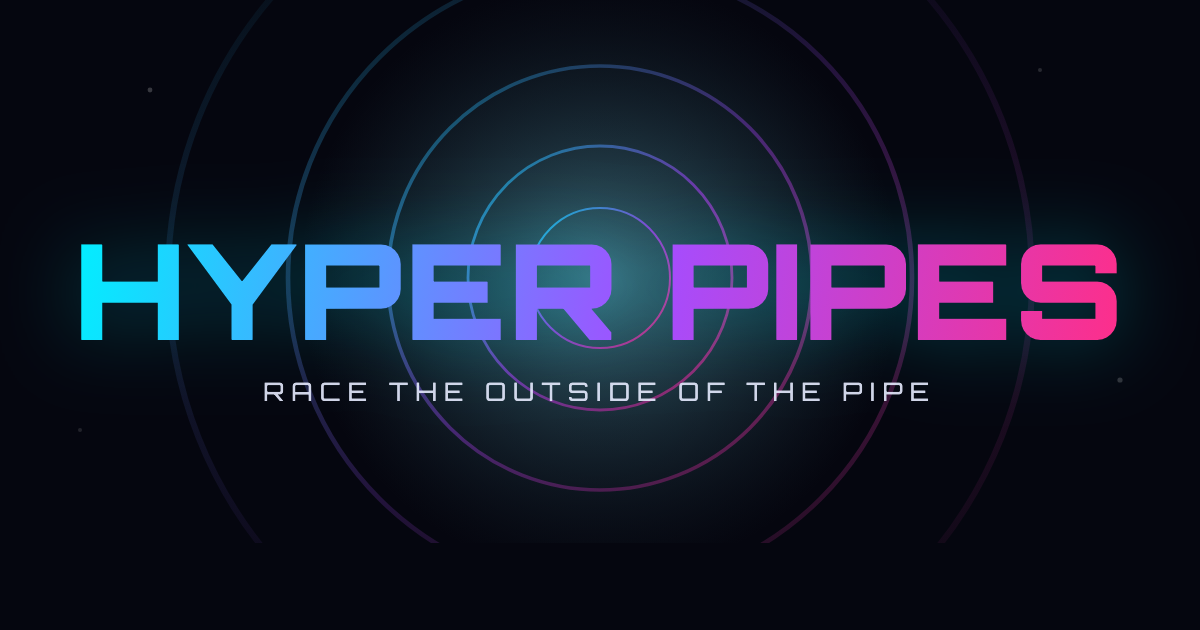
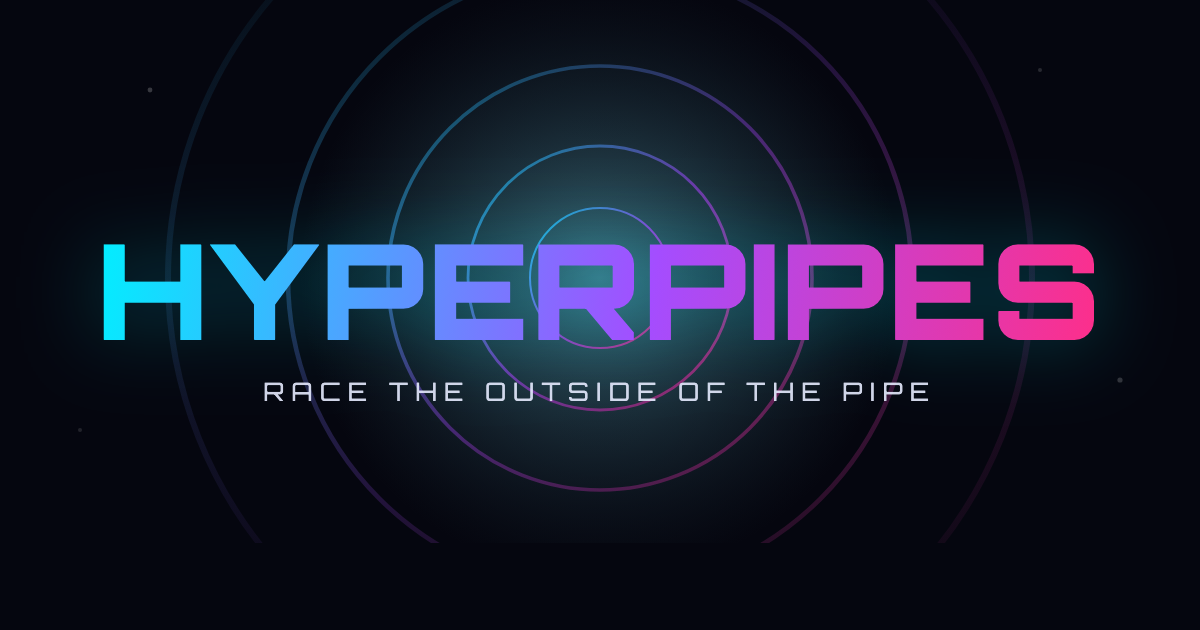
One word: HyperPipes
Renamed across the page, the README, the CSS header and the social card, and
re-rendered social-card.png so the baked-in wordmark matches.

The name is now a single unbreakable word, so the hero headline can no longer
wrap its way out of a narrow screen — dropped the clamp floor from 46px to
34px and gave the top bar a sub-400px rule so the brand and the button stop
competing.

Changed region(s): [[0.0617, 0.3619, 0.9558, 0.5429]]

diff --git a/index.html b/index.html
@@ -3,13 +3,13 @@
 <head>
 <meta charset="utf-8">
 <meta name="viewport" content="width=device-width, initial-scale=1">
-<title>Hyper Pipes — race the outside of the pipe</title>
-<meta name="description" content="Hyper Pipes is a neon anti-gravity racer where you race around the OUTSIDE of a procedurally generated pipe. Gravity pulls you around the tube — staying on top is the whole game.">
+<title>HyperPipes — race the outside of the pipe</title>
+<meta name="description" content="HyperPipes is a neon anti-gravity racer where you race around the OUTSIDE of a procedurally generated pipe. Gravity pulls you around the tube — staying on top is the whole game.">
 <meta name="theme-color" content="#05060f">
 
 <!-- link preview cards (Discord, X, Facebook, iMessage) -->
 <meta property="og:type" content="website">
-<meta property="og:title" content="Hyper Pipes">
+<meta property="og:title" content="HyperPipes">
 <meta property="og:description" content="A neon anti-gravity racer where you ride the OUTSIDE of the pipe. Gravity pulls you around the tube — staying on top is the whole game.">
 <meta property="og:image" content="assets/img/social-card.png">
 <meta name="twitter:card" content="summary_large_image">
@@ -25,7 +25,7 @@
   <div class="shell">
     <a class="brand" href="#top">
       <img src="assets/img/icon.svg" alt="">
-      <b>Hyper Pipes</b>
+      <b>HyperPipes</b>
     </a>
     <nav class="nav">
       <a href="#features">Features</a>
@@ -83,7 +83,7 @@
 
   <div class="hero-inner shell">
     <span class="badge"><span class="dot"></span> In development &middot; playable build</span>
-    <h1>Hyper Pipes</h1>
+    <h1>HyperPipes</h1>
     <p class="tagline">Race the outside of the pipe</p>
     <p class="pitch">
       A neon anti-gravity racer built on one twist: you ride the <em>outside</em> of the
@@ -338,7 +338,7 @@
       <div>
         <h2>Found a bug? Tell me.</h2>
         <p>
-          Hyper Pipes is a one-person project and every report genuinely helps. Bug
+          HyperPipes is a one-person project and every report genuinely helps. Bug
           reports and ideas live on GitHub — pick a template, fill in what happened,
           drop in a screenshot if you have one. You'll need a free GitHub account.
         </p>
@@ -357,7 +357,7 @@
 <!-- ========================================================== footer ===== -->
 <footer>
   <div class="shell">
-    <p>&copy; <span id="year">2026</span> CrashBamBoom &middot; Hyper Pipes &middot; Made with Godot</p>
+    <p>&copy; <span id="year">2026</span> CrashBamBoom &middot; HyperPipes &middot; Made with Godot</p>
     <nav class="fnav">
       <a href="#features">Features</a>
       <a href="#play">How it plays</a>

diff --git a/assets/css/style.css b/assets/css/style.css
@@ -1,5 +1,5 @@
 /* ==========================================================================
-   HYPER PIPES — site styles
+   HYPERPIPES — site styles
    Brand colours are lifted straight from the game's app icon so the site and
    the game read as one thing: cyan -> purple -> pink neon on deep navy.
    ========================================================================== */
@@ -262,7 +262,9 @@ section { position: relative; padding: 96px 0; }
 @keyframes blip { 0%, 100% { opacity: 1; } 50% { opacity: .25; } }
 
 .hero h1 {
-  font-size: clamp(46px, 11vw, 132px);
+  /* one unbreakable word since the rename, so the floor has to stay small
+     enough to fit a 320px phone — it can't wrap its way out of trouble */
+  font-size: clamp(34px, 11vw, 132px);
   font-weight: 900;
   text-transform: uppercase;
   letter-spacing: 0.02em;
@@ -633,6 +635,14 @@ footer a:hover { color: var(--cyan); }
   .nav { gap: 18px; }
   .nav a:not(.btn) { display: none; }
   section { padding: 72px 0; }
+}
+
+/* very narrow phones: the wordmark is one long word now, so give the top bar
+   room rather than letting the brand and the button fight each other */
+@media (max-width: 400px) {
+  .brand b { font-size: 14px; letter-spacing: 0.06em; }
+  .brand img { width: 32px; height: 32px; }
+  .nav .btn { padding: 10px 14px; font-size: 10px; letter-spacing: 0.08em; }
 }
 
 @media (prefers-reduced-motion: reduce) {

diff --git a/tools/social-card.html b/tools/social-card.html
@@ -83,7 +83,7 @@
   </div>
 
   <div class="inner">
-    <h1>Hyper Pipes</h1>
+    <h1>HyperPipes</h1>
     <p class="tag">Race the outside of the pipe</p>
   </div>
 

diff --git a/README.md b/README.md
@@ -1,6 +1,6 @@
-# Hyper Pipes — website
+# HyperPipes — website
 
-The public home page for **Hyper Pipes**. Plain HTML, CSS and a little JavaScript —
+The public home page for **HyperPipes**. Plain HTML, CSS and a little JavaScript —
 no build step, no framework, no npm. Open `index.html` in a browser and what you
 see is exactly what goes live.
 
